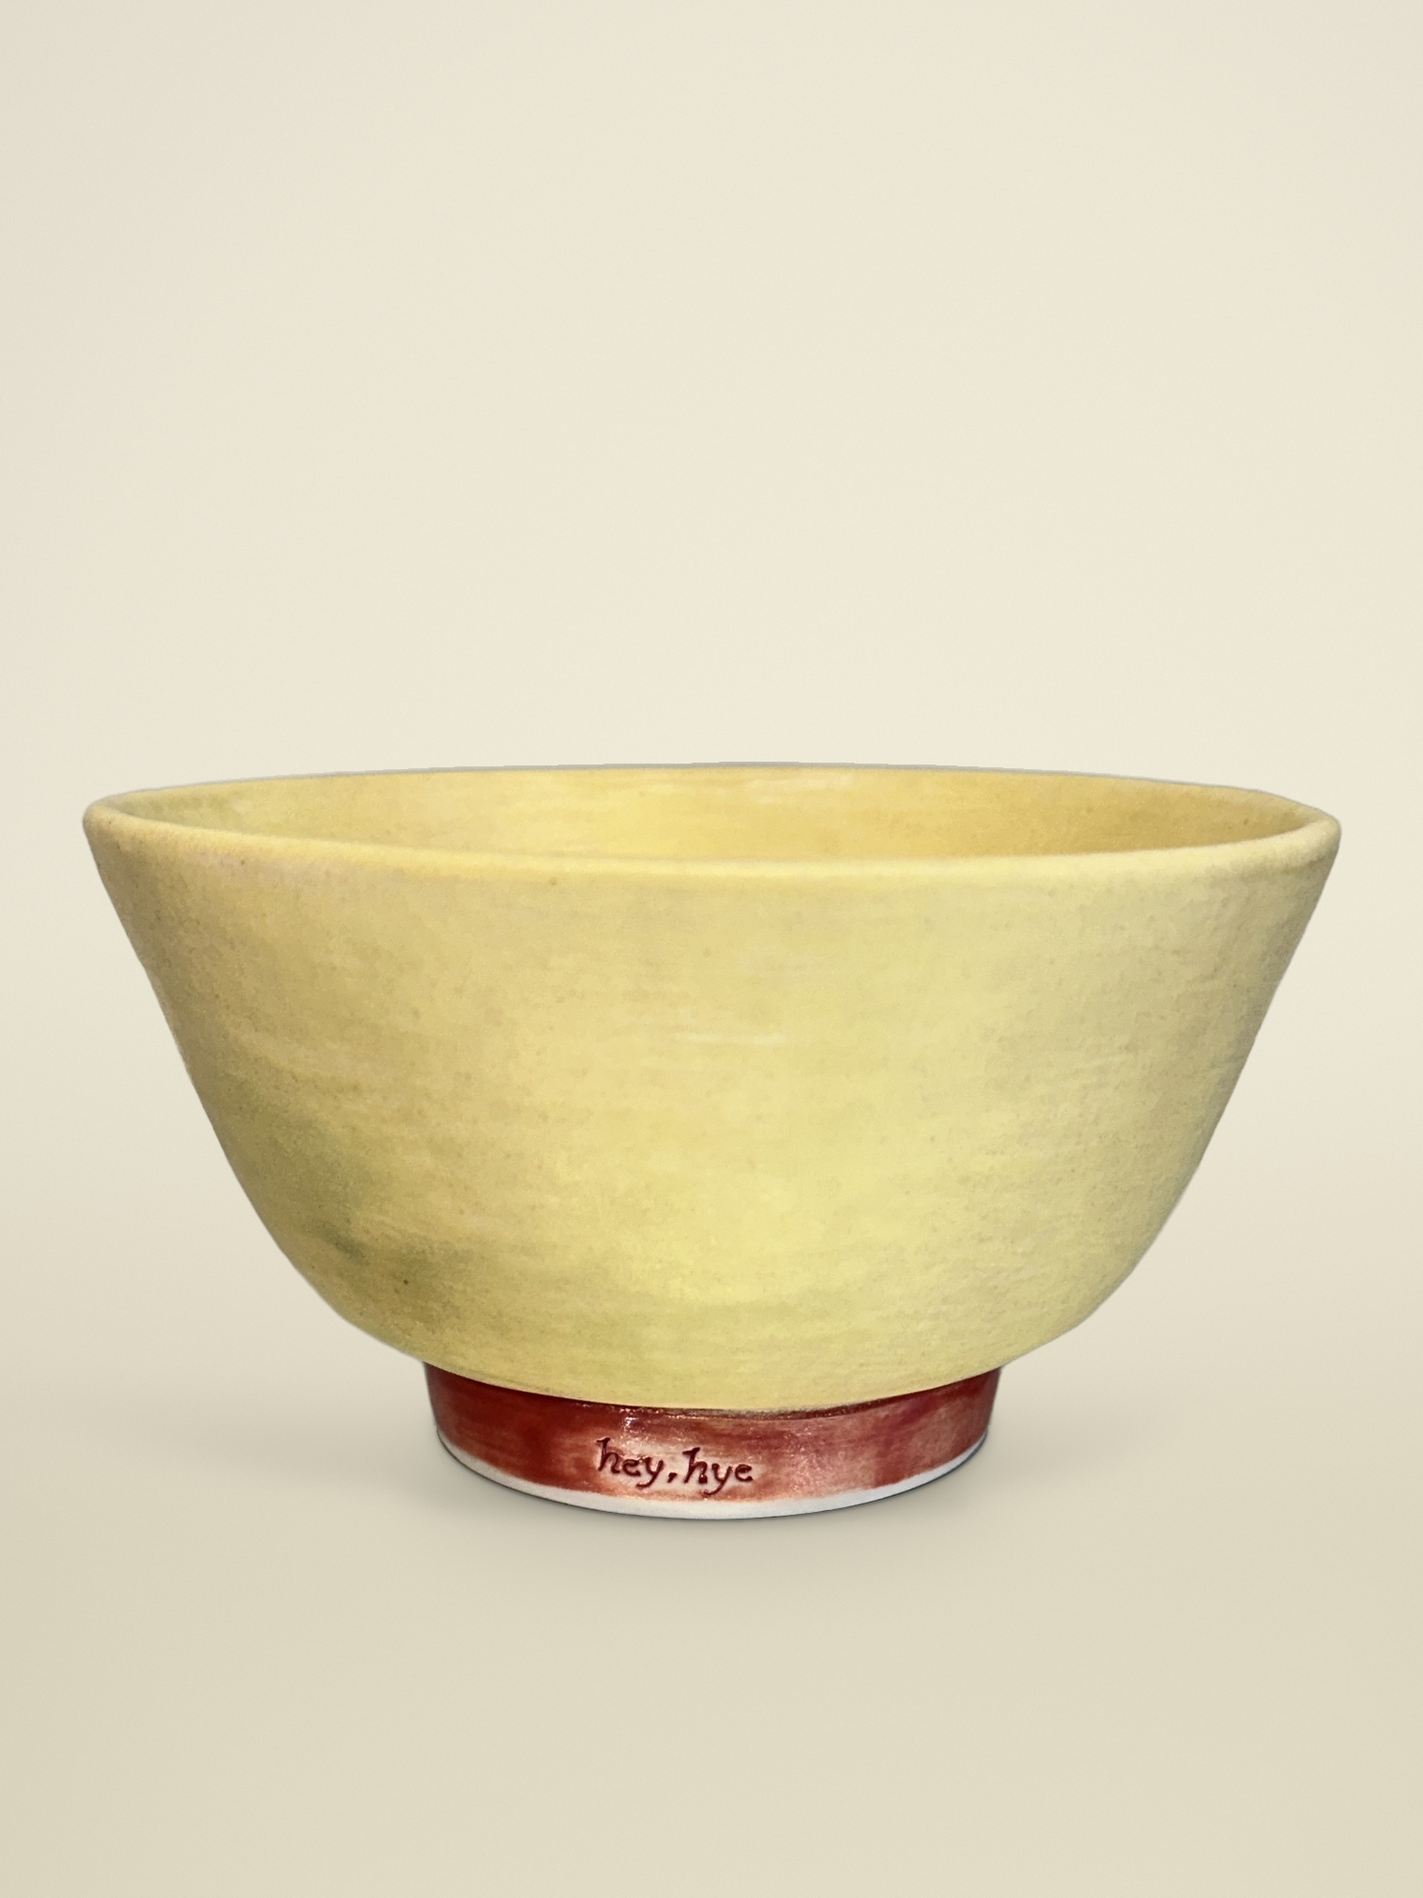
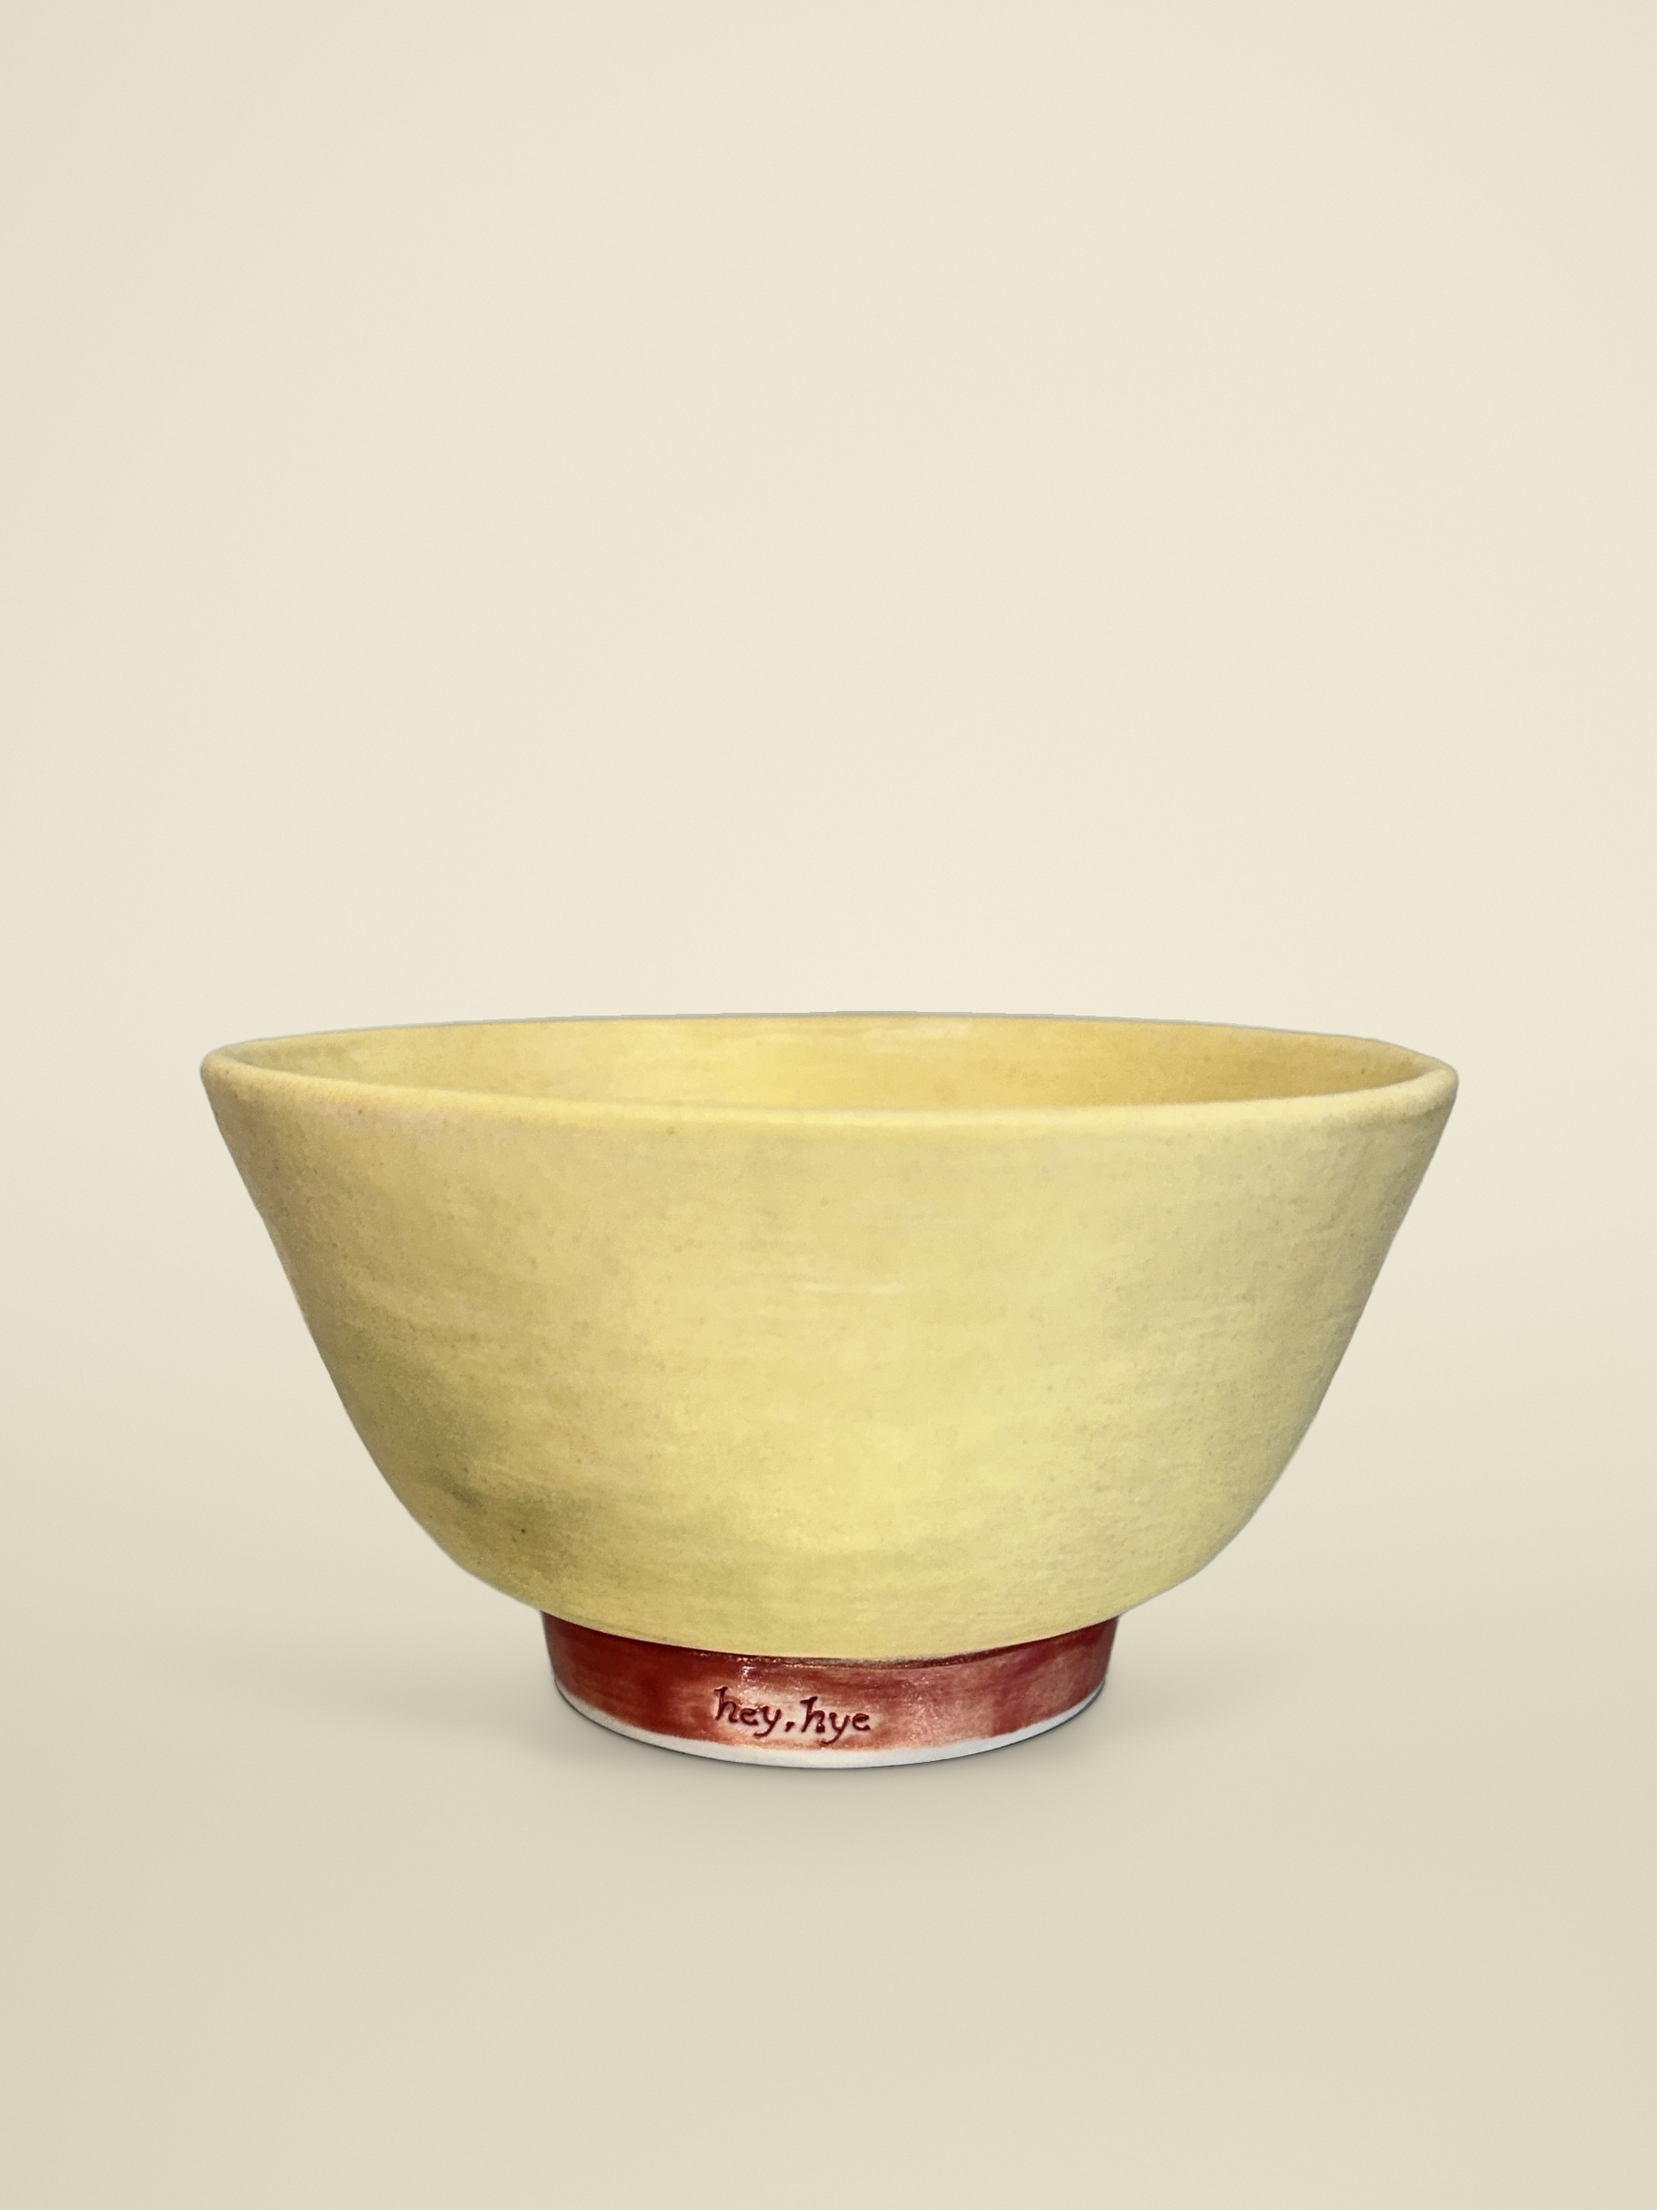
Vase set: crease reflection mode, canvas padding, shared background
- Add --reflection crease for side shots where a thin white foot line sits
  right above a dark contact crease: detect that pattern scanning up from
  the bottom, fit the foot ellipse, cut below it (only within the foot
  width, closing small junction notches inside the original mask).
- Mirror mode now takes the lowest white run per column, so light glaze
  higher up is not mistaken for the foot ring.
- Large products get a wider canvas (same aspect) instead of tight margins;
  --canvas WxH fixes the size so multi-angle sets match.
- --bg #hex builds the floor with the same rule as suggested colors.
- Accent suggestion also considers dark colors (e.g. deep green stripes).
- Add the three-view vase sample with a shared background; refresh
  palette sheets. Product pixels remain unchanged.

Claude-Session: https://claude.ai/code/session_01WGwx9JVhJ7CYZxXMbtASsV

Changed region(s): [[0.0622, 0.375, 0.9636, 0.8125], [0.2487, 0.625, 0.2798, 0.6562]]

diff --git a/tools/replace_background.py b/tools/replace_background.py
@@ -16,6 +16,11 @@
     python tools/replace_background.py product.jpg out.jpg --model ensemble --reflection rim
     # 식물 등 얇은 잎이 포함된 연출 사진
     python tools/replace_background.py product.jpg out.jpg --model birefnet-general --reflection none
+    # 옆모습: 얇은 흰 굽 선 바로 아래 어두운 접지선 + 반사
+    python tools/replace_background.py product.jpg out.jpg --model birefnet-general --reflection crease
+
+    # 한 제품의 여러 각도 사진을 세트로: 배경색·캔버스 크기 통일
+    python tools/replace_background.py a.jpg a_out.jpg --bg "#EDE0D2" --canvas 1628x2171
 
     # 배경색 후보 비교 이미지도 함께 저장 / 특정 후보·색 지정
     python tools/replace_background.py product.jpg out.jpg --palette-sheet sheet.jpg
@@ -141,7 +146,7 @@ def remove_mirror_reflection(img_bgr, alpha):
     """옆에서 찍어 굽 아래로 제품이 거울처럼 비친 경우의 반사 제거.
 
     hey,hye 제품은 굽 끝이 흰 무유(유약 없는) 띠이므로, 마스크 아래쪽에서
-    '밝고 채도 낮은 흰 띠'가 끝나는 지점을 열마다 찾고, 그 점들에
+    '밝고 채도 낮은 흰 띠' 중 가장 아래 것이 끝나는 지점을 열마다 찾고, 그 점들에
     2차 곡선(굽 바닥 타원의 앞쪽 호)을 맞춰 그 아래를 모두 잘라낸다.
     반환: (새 알파, 굽 바닥 타원 (cx, cy, a, b), 굽 좌우 x 범위)
     """
@@ -155,15 +160,17 @@ def remove_mirror_reflection(img_bgr, alpha):
         col = np.nonzero(solid[:, x])[0]
         if not len(col):
             continue
-        run = 0
+        # 흰 띠 중 '가장 아래' 것이 굽 끝 (위쪽의 밝은 유약면을 흰 띠로 오인하지 않게)
+        run, last = 0, None
         for y in range(max(col.min(), bot - int(0.45 * (bot - top))), col.max() + 1):
             if white[y, x]:
                 run += 1
             else:
                 if run >= 4:
-                    pts.append((x, y))
-                    break
+                    last = y
                 run = 0
+        if last is not None:
+            pts.append((x, last))
     pts = np.array(pts, np.float64)
     if len(pts) < 20:
         return alpha, None, None
@@ -239,19 +246,82 @@ def remove_rim_reflection(img_bgr, alpha, line_px=7):
     return np.minimum(alpha, np.clip(cut[None, :] - yy + 0.5, 0, 1).astype(np.float32))
 
 
-def place(img, alpha, h, w):
+def remove_crease_reflection(img_bgr, alpha, zone=0.12):
+    """옆모습: 흰 굽 선 → 어두운 접지선 → (반사) 순서로 보이는 경우의 반사 제거.
+
+    열마다 마스크 맨 아래에서 위로 올라가며, '바로 위가 밝은 흰 선(굽 끝)이고
+    자신은 어두운' 접지선을 찾는다. 그 점들에 매끈한 곡선을 맞춰 접지선부터
+    아래(바닥에 비친 굽·몸체)를 잘라낸다. 흰 선이 얇아도(3px~) 동작한다.
+    """
+    g = cv2.GaussianBlur(cv2.cvtColor(img_bgr, cv2.COLOR_BGR2GRAY).astype(np.float32),
+                         (0, 0), 0.8)
+    solid = alpha > 0.5
+    ys, xs = np.nonzero(solid)
+    top, bot = ys.min(), ys.max()
+    lim = int(bot - zone * (bot - top))
+    X, T = [], []
+    for x in range(xs.min(), xs.max() + 1):
+        col = np.nonzero(solid[:, x])[0]
+        if not len(col) or col.max() < lim:
+            continue
+        for y in range(col.max(), max(lim, col.min() + 10), -1):
+            above = g[y - 9:y - 1, x]
+            if above.max() > 170 and above.max() - g[y, x] > 45 and g[y, x] <= g[y - 1:y + 2, x].min():
+                X.append(x)
+                T.append(y - 1)
+                break
+    if len(X) < 20:
+        return alpha
+    X, T = np.array(X, float), np.array(T, float)
+    keep = np.ones(len(X), bool)
+    for _ in range(5):
+        p = np.polyfit(X[keep], T[keep], 4)
+        r = np.abs(T - np.polyval(p, X))
+        keep = r < max(2.5, 2.5 * np.median(r[keep]))
+    h, w = alpha.shape
+    xx = np.arange(w, dtype=np.float64)
+    # 굽 바닥은 타원 → 앞쪽 호의 점들로 타원을 맞추면 양 끝(위로 휘는 부분)까지 정확
+    pts = np.stack([X[keep], T[keep]], 1).astype(np.float32)
+    (ecx, ecy), (d1, d2), ang = cv2.fitEllipse(pts)
+    ea, eb = max(d1, d2) / 2, min(d1, d2) / 2
+    if abs(((ang + 90) % 180) - 90) < 15 or abs(((ang) % 180) - 90) < 15:
+        # 축이 거의 수평/수직인 타원만 사용: 아래 호 y = cy + b·sqrt(1-((x-cx)/a)^2)
+        t = np.clip((xx - ecx) / ea, -1, 1)
+        inside = np.abs(xx - ecx) <= ea
+        # 타원 끝 바로 바깥(18px)은 끝 높이로 잘라 반사 조각을 없애고,
+        # 그보다 바깥은 몸통이므로 자르지 않는다
+        edge = (np.abs(xx - ecx) > ea) & (np.abs(xx - ecx) <= ea + 18)
+        cut = np.where(inside, ecy + eb * np.sqrt(1 - t * t), np.where(edge, ecy, 1e9))
+    else:
+        xl, xr = X[keep].min(), X[keep].max()
+        cut = np.polyval(p, np.clip(xx, xl, xr))
+    yy = np.arange(h, dtype=np.float64)[:, None]
+    out = np.minimum(alpha, np.clip(cut[None, :] - yy + 0.5, 0, 1).astype(np.float32))
+    # 컷 곡선과 옆 윤곽이 만나는 곳의 작은 홈 메우기 (원래 마스크 범위 안에서만)
+    k = cv2.getStructuringElement(cv2.MORPH_ELLIPSE, (25, 25))
+    return np.minimum(alpha, np.maximum(out, cv2.morphologyEx(out, cv2.MORPH_CLOSE, k)))
+
+
+def place(img, alpha, h, w, max_w=0.76, max_h=0.74, canvas=None):
     """제품을 평행이동만 해서(크기·회전 변경 없음 → 픽셀 재샘플링 없음) 배치.
 
-    가로 중앙, 바닥 닿는 선을 캔버스 80% 높이에. 키가 커서 위가 잘리면 내린다.
+    가로 중앙, 바닥 닿는 선을 캔버스 80% 높이에. 제품이 커서 여백이 부족하면
+    제품을 줄이는 대신 캔버스를 같은 비율로 넓힌다(제품 폭 ≤ 76%, 높이 ≤ 74%).
+    반환: (배치된 이미지, 알파) — 캔버스 크기는 원본보다 클 수 있음
     """
     ys, xs = np.nonzero(alpha > 0.5)
-    dx = int(round(w / 2 - (xs.min() + xs.max()) / 2))
-    dy = int(round(h * 0.80 - ys.max()))
-    if ys.min() + dy < h * 0.06:
-        dy = int(round(h * 0.06 - ys.min()))
+    bw, bh = xs.max() - xs.min() + 1, ys.max() - ys.min() + 1
+    k = max(1.0, bw / (max_w * w), bh / (max_h * h))
+    W, H = int(np.ceil(w * k)), int(np.ceil(h * k))
+    if canvas:  # 세트 사진 크기 통일용 고정 캔버스 (필요하면 그보다 크게)
+        W, H = max(W, canvas[0]), max(H, canvas[1])
+    dx = int(round(W / 2 - (xs.min() + xs.max()) / 2))
+    dy = int(round(H * 0.80 - ys.max()))
+    if ys.min() + dy < H * 0.06:
+        dy = int(round(H * 0.06 - ys.min()))
     M = np.float32([[1, 0, dx], [0, 1, dy]])
-    return (cv2.warpAffine(img, M, (w, h), flags=cv2.INTER_NEAREST),
-            cv2.warpAffine(alpha, M, (w, h), flags=cv2.INTER_NEAREST))
+    return (cv2.warpAffine(img, M, (W, H), flags=cv2.INTER_NEAREST),
+            cv2.warpAffine(alpha, M, (W, H), flags=cv2.INTER_NEAREST))
 
 
 def main():
@@ -264,6 +334,7 @@ def main():
                         "reference(--bg-ref 이미지 색) | 1,2,3..(추천 순위) | #RRGGBB")
     p.add_argument("--bg-ref", help="배경 색감 참고 이미지(선택). 주면 후보에 '참고 배경'이 추가됨")
     p.add_argument("--palette-sheet", help="배경색 후보별 결과를 나란히 놓은 비교 이미지 저장 경로")
+    p.add_argument("--canvas", help="출력 크기 고정 WxH (예: 1628x2171). 세트 사진 크기 통일용")
     p.add_argument("--shadow", type=float, default=1.0, help="그림자 진하기 배율 (기본 1.0)")
     p.add_argument("--mask-out", help="알파 마스크 저장 경로(선택)")
     p.add_argument("--view", choices=["top", "side"], default="top",
@@ -273,9 +344,10 @@ def main():
                    help="rembg 분할 모델. 배경이 복잡하면(가격표·투명 아크릴 등) "
                         "ensemble(isnet으로 제품 선택 + birefnet 경계)이 가장 정확함. "
                         "식물 등 얇은 잎이 있으면 birefnet-general")
-    p.add_argument("--reflection", choices=["auto", "thin", "mirror", "rim", "none"], default="auto",
+    p.add_argument("--reflection", choices=["auto", "thin", "mirror", "rim", "crease", "none"], default="auto",
                    help="바닥 반사 제거 방식. auto: top→thin, side→mirror. "
                         "rim: 어두운 유광 몸체 아래 밝은 굽 반사(은색 테두리만 남김). "
+                        "crease: 얇은 흰 굽 선 바로 아래 어두운 접지선이 보이는 옆모습. "
                         "none: AI 마스크가 이미 굽 끝에서 정확히 끝날 때")
     args = p.parse_args()
 
@@ -293,8 +365,11 @@ def main():
         alpha = remove_bottom_reflection(img, alpha)
     elif refl == "rim":
         alpha = remove_rim_reflection(img, alpha)
+    elif refl == "crease":
+        alpha = remove_crease_reflection(img, alpha)
 
-    img_t, alpha = place(img, alpha, h, w)
+    canvas = tuple(int(v) for v in args.canvas.lower().split("x")) if args.canvas else None
+    img_t, alpha = place(img, alpha, h, w, canvas=canvas)
     light_x = studio.light_direction(img_t, alpha)
     cands = studio.recommend_backgrounds(img_t, alpha, ref)
 
@@ -305,7 +380,8 @@ def main():
     if args.bg.startswith("#"):
         wall = studio.parse_hex(args.bg)
         lab = studio.bgr_to_lab(wall)[0]
-        floor = studio.lab_to_bgr(lab - np.array([6, 0, 0], np.float32))[0]
+        # 추천 후보와 같은 규칙: 바닥은 명도 −6, 채도 ×1.25
+        floor = studio.lab_to_bgr(np.array([lab[0] - 6, lab[1] * 1.25, lab[2] * 1.25], np.float32))[0]
         chosen = dict(label_ko="직접 지정", wall=wall, floor=floor)
     elif args.bg == "auto":
         chosen = cands[0]

diff --git a/tools/studio.py b/tools/studio.py
@@ -74,7 +74,8 @@ def recommend_backgrounds(img_bgr, alpha, ref_bgr=None):
     accent = None
     if main is not None:
         for i in np.argsort(-score):
-            if i != main and score[i] > 0 and C[i] > 15 and \
+            # 어두운 색(예: 진녹색 줄무늬)은 Lab 채도가 낮게 나오므로 기준을 낮추고 면적도 본다
+            if i != main and score[i] > 0 and C[i] > 7 and w[i] >= 0.10 and \
                     min(abs(H[i] - H[main]), 360 - abs(H[i] - H[main])) > 35:
                 accent = int(i)
                 break
